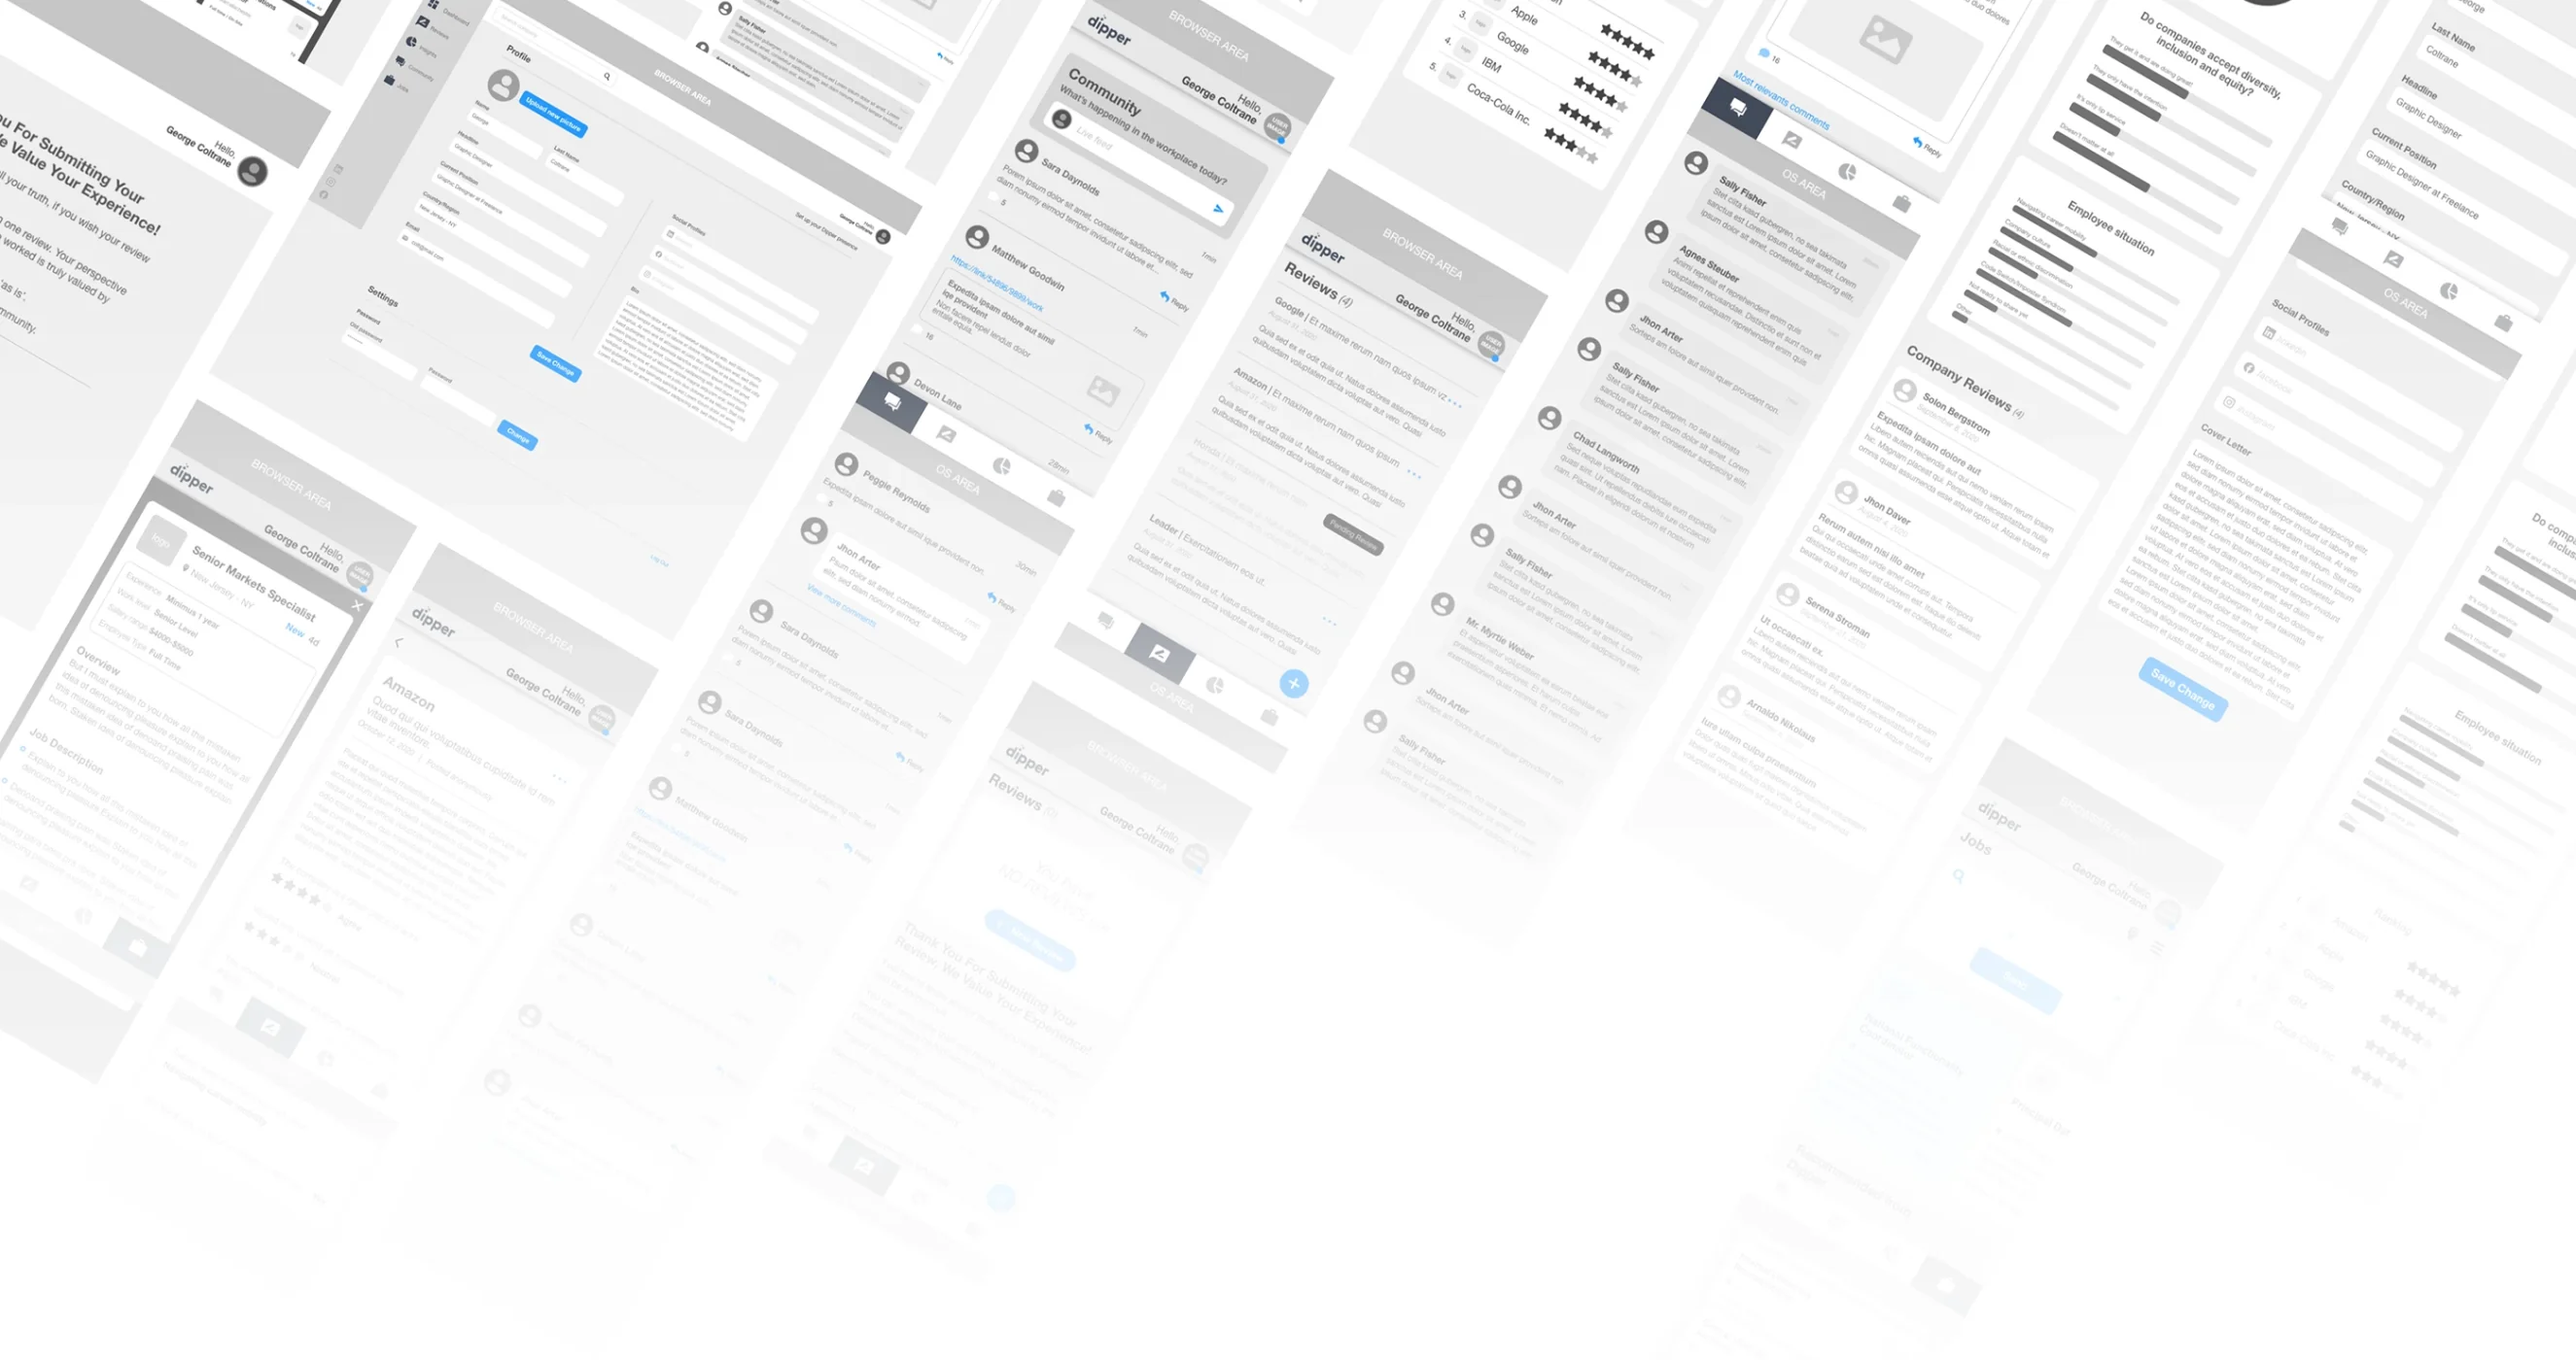
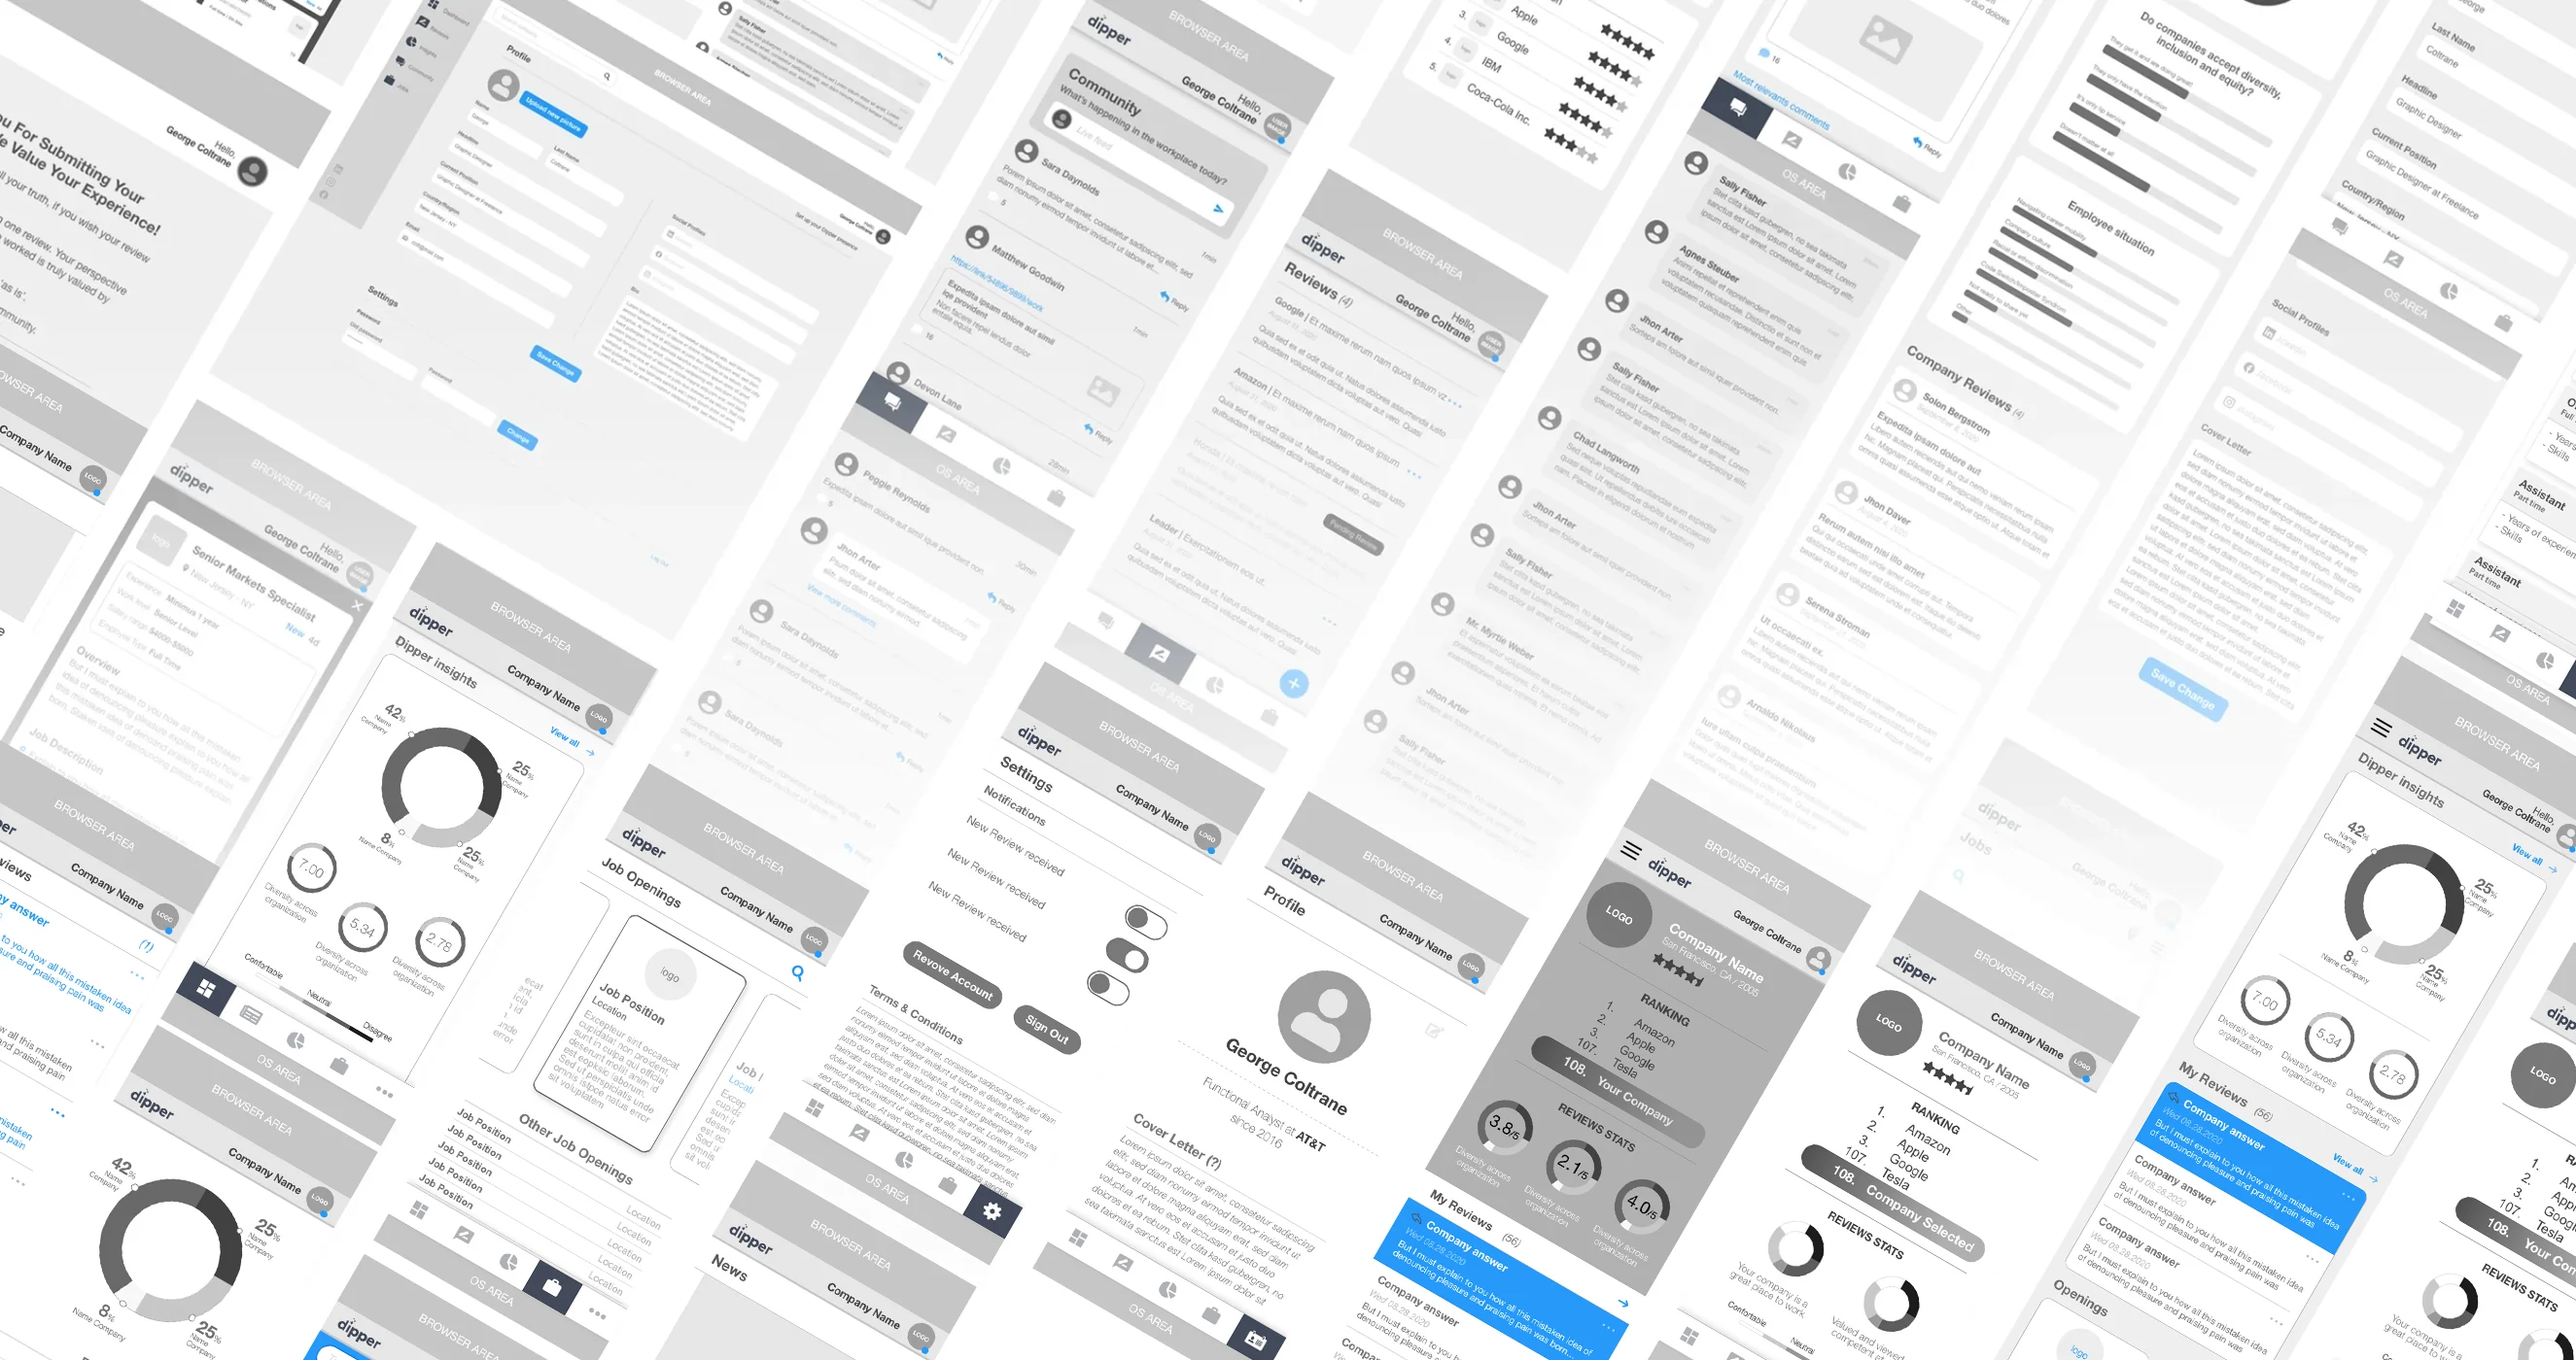
Dipper: autoplay walkthrough, new wireframes, mobile filmstrip
- Walkthrough video now autoplays on modal open (muted/loop/playsinline)
- Replace the wireframes figure with the new perspective collage
- Add a seven-screen mobile filmstrip to the Responsive section
  (the individual's app), sharing the row equally so it fits any width

diff --git a/index.html b/index.html
@@ -1361,6 +1361,26 @@
     .cs2-video { background: #fff; }   /* matches the artwork's own ground while it loads */
     .cs2-figure { margin-top: calc(14 * var(--v)); }
 
+    /* Responsive filmstrip — the individual's mobile product, one screen per view.
+       flex:1 1 0 makes the seven phones share the row equally, so it fits any
+       container width (desktop cqw or the fixed 900px mobile pan) without overflow. */
+    .cs2-phones {
+      display: flex;
+      gap: calc(14 * var(--v));
+      margin-top: calc(24 * var(--v));
+      align-items: flex-start;
+    }
+    .cs2-phones img {
+      flex: 1 1 0;
+      min-width: 0;
+      width: 100%;
+      height: auto;
+      display: block;
+      background: #fff;
+      border-radius: calc(16 * var(--v));
+      box-shadow: 0 calc(8 * var(--v)) calc(24 * var(--v)) rgba(0,0,0,0.35);
+    }
+
     .cs2-two {
       display: grid;
       grid-template-columns: minmax(0, 0.85fr) minmax(0, 1fr);
@@ -3810,6 +3830,17 @@ abcdefghijklmnopqrstuvwxyz
           <p class="cs2-prose cs2-prose--wide">The <strong>mobile-first approach</strong> forced the content to simplify rather than shrink. What came out is minimalist and fully functional on every device people actually use — not a desktop layout squeezed down.</p>
           <img class="cs2-figure" data-src="img/dipper/responsive.webp" decoding="async"
                alt="The Dipper landing page across desktop, laptop, tablet and phone breakpoints">
+
+          <div class="cs2-caption" style="margin-top: calc(30 * var(--v));">The individual&rsquo;s app &middot; seven core screens</div>
+          <div class="cs2-phones">
+            <img data-src="img/dipper/m-01-dashboard.webp" decoding="async" alt="Mobile dashboard with company ranking and review stats">
+            <img data-src="img/dipper/m-02-reviews.webp" decoding="async" alt="My reviews screen">
+            <img data-src="img/dipper/m-03-insights.webp" decoding="async" alt="Insights screen with the diversity breakdown">
+            <img data-src="img/dipper/m-04-jobs.webp" decoding="async" alt="Job openings screen">
+            <img data-src="img/dipper/m-05-news.webp" decoding="async" alt="News feed screen">
+            <img data-src="img/dipper/m-06-profile.webp" decoding="async" alt="Profile screen">
+            <img data-src="img/dipper/m-07-settings.webp" decoding="async" alt="Settings screen">
+          </div>
         </section>
 
         <div class="cs2-line"></div>
@@ -3837,7 +3868,7 @@ abcdefghijklmnopqrstuvwxyz
                Shipped as video rather than the source GIF — same 4.2s, 14MB down
                to 677KB, and it decodes on the GPU instead of pegging a core. -->
           <div class="cs2-closer">
-            <video class="cs2-video" muted loop playsinline preload="none"
+            <video class="cs2-video" autoplay muted loop playsinline preload="none"
                    poster="img/dipper/webapp-poster.webp"
                    aria-label="Walkthrough of the Dipper web app, from the landing card through company insights and reviews">
               <source data-src="img/dipper/webapp.webm" type="video/webm">
